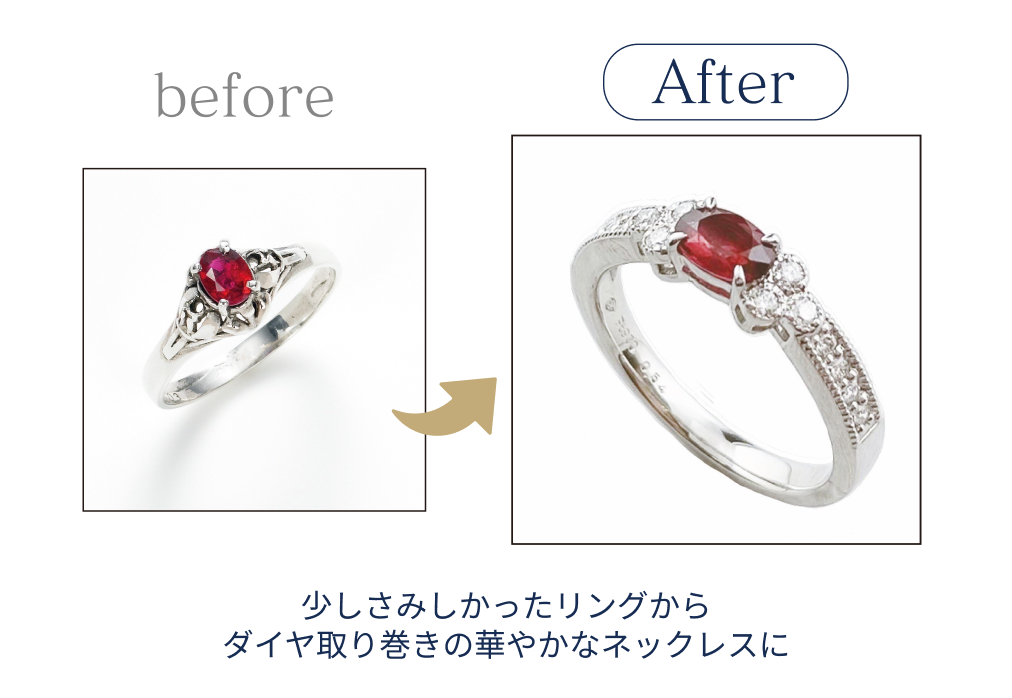
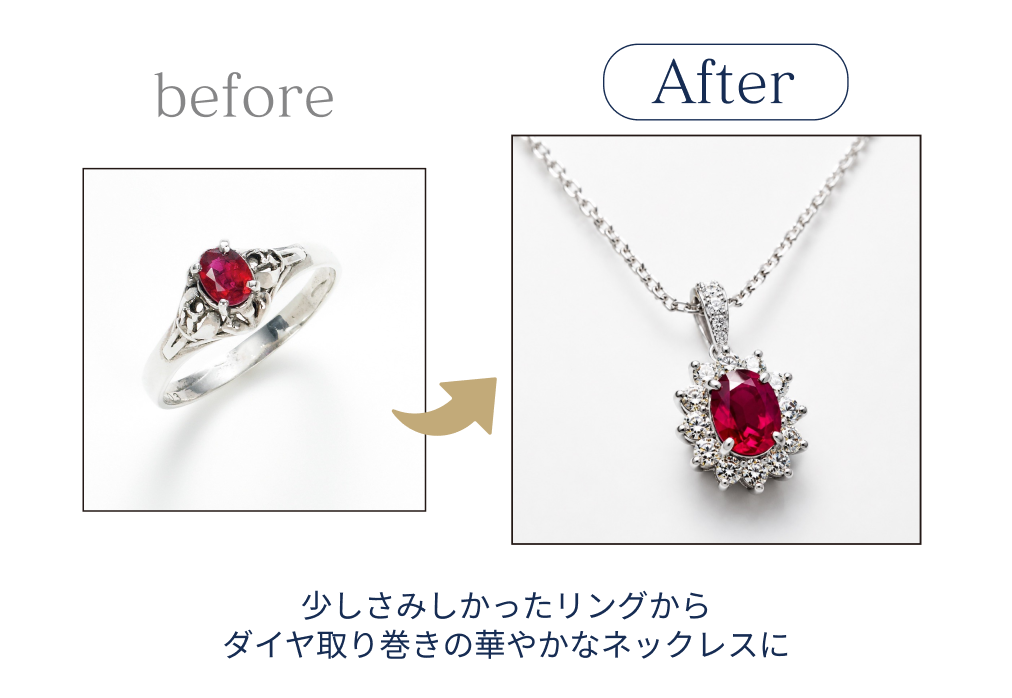
update

Changed region(s): [[0.4901, 0.1805, 0.8883, 0.7822]]

diff --git a/assets/css/pages/products.css b/assets/css/pages/products.css
@@ -848,6 +848,10 @@
   color: #231815;
 }
 
+.jgs-products-accessory-row__text + .jgs-products-accessory-row__text {
+  margin-top: 10px;
+}
+
 .jgs-products-accessory-row__media {
   margin: 0;
   min-width: 0;

diff --git a/assets/css/pages/top.css b/assets/css/pages/top.css
@@ -2125,7 +2125,7 @@
   }
 
   .jgs-top-products__name {
-    font-size: clamp(10px, 2.67vw, 14px);
+    font-size: clamp(9px, 2.67vw, 13px);
     font-weight: 900;
   }
 }